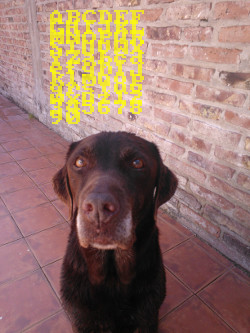
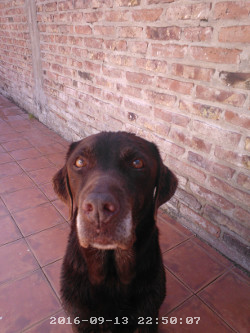
zoom working

diff --git a/font8x8render.py b/font8x8render.py
@@ -33,9 +33,13 @@ def newcol(oldpix, newpix, alpha):
           oldpix[2]*(1-alpha)+newpix[2]*alpha]
 
 
-def annotate_img(img, text, x=8, y=8, dir="horiz", color=[128,128,128], alpha=1.0, zoom=2):
+def annotate_img(img, text, x=8, y=8, dir="horiz", 
+	color=[128,128,128], alpha=1.0, zoom=1):
 
   kern=8
+
+  if y=="bottom":
+  	y=img.shape[0]-(kern*zoom*2)
 
   dx=0
   dy=0
@@ -57,14 +61,18 @@ def annotate_img(img, text, x=8, y=8, dir="horiz", color=[128,128,128], alpha=1.
                    color, alpha)
 
     if dir=="vert":
-      dy+=kernzoom
-      if dy*zoom>=img.shape[0]-y-8*zoom:
-        dx+=kern+2
+      dy+=(kern+1)*zoom
+      if y+dy+kern*zoom>=img.shape[0]:
+        dx+=(kern+1)*zoom
+        if x+dx+kern*zoom>=img.shape[1]:
+          return
         dy=0
     else:
       dx+=kern*zoom
-      if dx*zoom>=img.shape[1]-x-8*zoom:
-        dy+=kern+2
+      if x+dx+kern*zoom>=img.shape[1]:
+        dy+=(kern+2)*zoom
+        if y+dy+kern*zoom>=img.shape[0]:
+          return
         dx=0
     
   return

diff --git a/demo_img.py b/demo_img.py
@@ -1,18 +1,24 @@
 #
-# example: annotate image with 8x8 font
+# example: annotate image with date & time using 8x8 font
+#
+# Author: Dario Albertocchi, 2016-09-12 (Programmer's Day)
+# License: Public Domain
+#
 #
 
 import matplotlib.pyplot as plt
 import warnings
+import datetime
 
 import font8x8render
 
 plt.ion()
 img = plt.imread('anu.jpg')
 
-text="ABCDEFGHIJKLMNOPQRSTUVWXYZabcdefghijklmnopqrstuvwxyz1234567890"
-font8x8render.annotate_img(img, text, x=50, y=10,
-     color=[255,255,0], alpha=0.7)
+#text="ABCDEFGHIJKLMNOPQRSTUVWXYZabcdefghijklmnopqrstuvwxyz1234567890"
+text=datetime.date.today().strftime("%Y-%m-%d")+" "+datetime.datetime.now().time().strftime("%H:%M:%S")
+font8x8render.annotate_img(img, text, x=50, y="bottom",
+      color=[255,255,255], alpha=0.6, zoom=1)
 
 plt.imshow(img)
 plt.show()
@@ -20,7 +26,7 @@ plt.show()
 plt.imsave(fname='demo_img_annotated.png', arr=img)
 
 warnings.simplefilter('ignore')
-plt.pause(60)
+plt.pause(10)
 
 plt.close()
 
